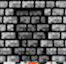
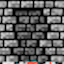
Added empty Stat section at bottom of game screen
Added empty Stat section at bottom of game screen, standardized tile sizes to 64x64

diff --git a/beneaththemanor.java b/beneaththemanor.java
@@ -20,6 +20,7 @@ public class beneaththemanor extends JFrame
 	public int indoor;
 	public int[] outdoor=new int[4]; //NSEW
     public startGame start=new startGame();
+	public GameHud Hud=new GameHud();
     public KeyListener mover;
     public int trackmover;
     public ActionListener initialclick;
@@ -31,7 +32,9 @@ public class beneaththemanor extends JFrame
     public beneaththemanor()
     {
         super("Beneath the Manor");
-        add(start);
+		setLayout(new BorderLayout());
+        add(start, BorderLayout.NORTH);
+		add(Hud, BorderLayout.SOUTH);
     }
     
     class startGame extends JPanel
@@ -334,8 +337,17 @@ public class beneaththemanor extends JFrame
             
         }
         
-        }
-    
-    
     }
+    
+	class GameHud extends JPanel
+	{
+		public GameHud(){
+		setPreferredSize(new Dimension(640, 200));
+		setBackground(Color.BLACK);
+		}
+		
+	}
+	
+    
+}
 

diff --git a/SEGame.java b/SEGame.java
@@ -124,7 +124,7 @@ public class SEGame {
 		
 		beneaththemanor frame = new beneaththemanor();
         frame.setDefaultCloseOperation(JFrame.EXIT_ON_CLOSE);
-        frame.setSize(640, 640); // set frame size
+        frame.setSize(640, 840); // set frame size
         frame.setVisible(true); // display frame
 		frame.setResizable(false);
         
